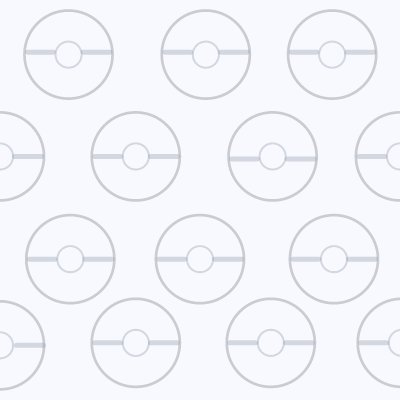
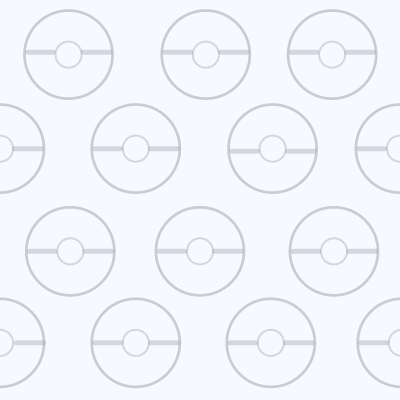
Fixing the background of the webpage and fixing the welcome section

diff --git a/index.html b/index.html
@@ -6,8 +6,9 @@
     </head>
     <body onload="loadTable()">
         <div class="welcome">
-            <h1>WELCOME</h1>
-            <h3>To the Unofficial Official Pokedex (name pending)</h3>
+            <h3>WELCOME</h3>
+            <h1>To the Unofficial Official Pokedex</h1>
+            <h5>(Name Pending)</h5>
         </div>
         <div class="main">
             <div class="container">

diff --git a/index.css b/index.css
@@ -28,19 +28,23 @@ body{
     margin-top: 67.5px;
 }
 
-.welcome h1{
-    padding-top: 10px;
-    font-size: 144px;
+.welcome h1, .welcome h3, .welcome h5{
     color: white;
 }
 
+.welcome h1{
+    padding-top: 50px;
+    font-size: 72px;
+}
+
 .welcome h3{
-    color: white;
+    font-size: 36px;
 }
 
 .main{
     float: left;
     margin-left: 2%;
+    width: 38%;
 
 }
 
